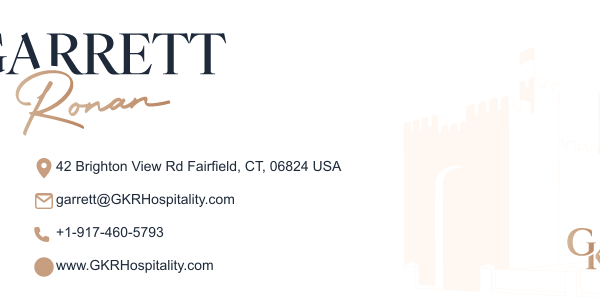
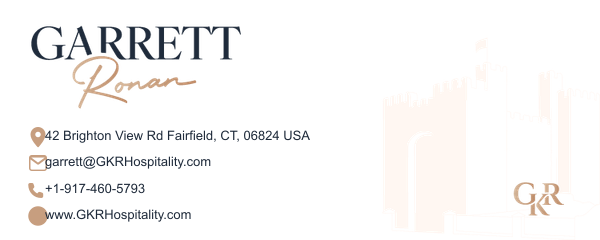
fix: resize signature without cropping

diff --git a/public/email-signature/garrett_final.html b/public/email-signature/garrett_final.html
@@ -1,0 +1,94 @@
+<!DOCTYPE html>
+<html>
+
+<head>
+    <meta charset="utf-8">
+    <title>Garrett Ronan Signature</title>
+    <style>
+        body {
+            margin: 0;
+            padding: 0;
+        }
+
+        img {
+            display: block;
+            border: 0;
+            max-width: 100%;
+            height: auto;
+        }
+
+        /* Dark Mode Toggling */
+        @media (prefers-color-scheme: dark) {
+            .light-mode-image {
+                display: none !important;
+            }
+
+            .dark-mode-image {
+                display: block !important;
+            }
+        }
+
+        @media (prefers-color-scheme: light) {
+            .light-mode-image {
+                display: block !important;
+            }
+
+            .dark-mode-image {
+                display: none !important;
+            }
+        }
+    </style>
+</head>
+
+<body>
+
+    <!-- Light Mode Container (Default) -->
+    <!-- Uses Final_Sign_LightMode.png (Dark Text) -->
+    <div class="light-mode-image">
+        <img src="https://raw.githubusercontent.com/digibranders/garrett-ronan-web/dev/public/email-signature/Final_Sign_LightMode.png"
+            alt="Garrett Ronan" width="600" height="300" usemap="#signature_map_light">
+
+        <map name="signature_map_light">
+            <!-- Address: ~Top 156, Height ~20 -->
+            <area shape="rect" coords="30,150,580,175"
+                href="https://www.google.com/maps/search/?api=1&query=42%20Brighton%20View%20Rd%20Fairfield%2C%20CT%2006824%20USA"
+                target="_blank" alt="Address">
+
+            <!-- Email: ~Top 189 -->
+            <area shape="rect" coords="30,184,350,208" href="mailto:garrett@GKRHospitality.com" alt="Email">
+
+            <!-- Phone: ~Top 222 -->
+            <area shape="rect" coords="30,218,250,242" href="tel:+19174605793" alt="Phone">
+
+            <!-- Website: ~Top 255 -->
+            <area shape="rect" coords="30,250,350,275" href="https://www.GKRHospitality.com" target="_blank"
+                alt="Website">
+
+            <!-- Main Logo Click (Top area) -->
+            <area shape="rect" coords="30,30,400,120" href="https://www.GKRHospitality.com" target="_blank"
+                alt="Garrett Ronan">
+        </map>
+    </div>
+
+    <!-- Dark Mode Container -->
+    <!-- Uses Final_Sign_DarkMode.png (White Text) -->
+    <div class="dark-mode-image" style="display: none;">
+        <img src="https://raw.githubusercontent.com/digibranders/garrett-ronan-web/dev/public/email-signature/Final_Sign_DarkMode.png"
+            alt="Garrett Ronan" width="600" height="300" usemap="#signature_map_dark">
+
+        <map name="signature_map_dark">
+            <area shape="rect" coords="30,150,580,175"
+                href="https://www.google.com/maps/search/?api=1&query=42%20Brighton%20View%20Rd%20Fairfield%2C%20CT%2006824%20USA"
+                target="_blank" alt="Address">
+            <area shape="rect" coords="30,184,350,208" href="mailto:garrett@GKRHospitality.com" alt="Email">
+            <area shape="rect" coords="30,218,250,242" href="tel:+19174605793" alt="Phone">
+            <area shape="rect" coords="30,250,350,275" href="https://www.GKRHospitality.com" target="_blank"
+                alt="Website">
+            <area shape="rect" coords="30,30,400,120" href="https://www.GKRHospitality.com" target="_blank"
+                alt="Garrett Ronan">
+        </map>
+    </div>
+
+</body>
+
+</html>
